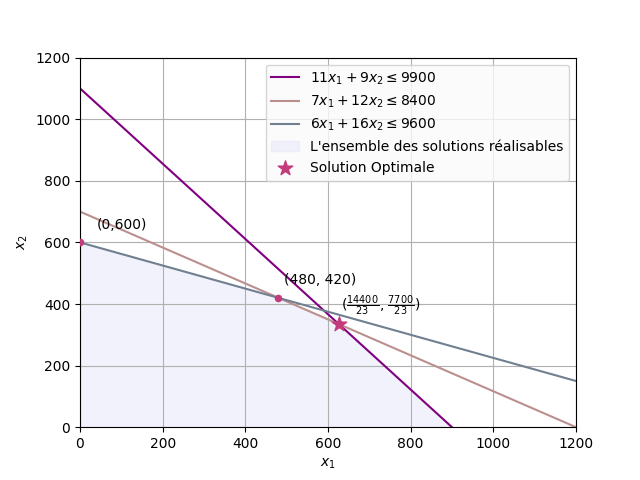
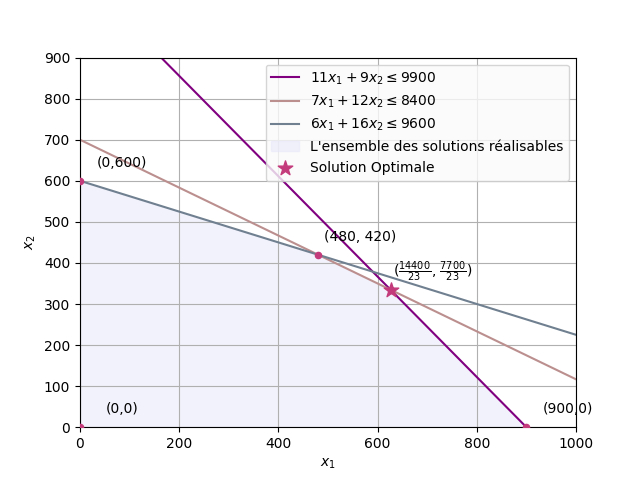
fix plots

diff --git a/Recherche Operationnelle/plot_02.py b/Recherche Operationnelle/plot_02.py
@@ -1,14 +1,14 @@
 import matplotlib.pyplot as plt
 import numpy as np
 
-x_1 = np.linspace(0, 20, 400)
+x_1 = np.linspace(0, 30, 100)
 c_1 = 12 - 2 * x_1
 c_2 = (74 - 5 * x_1) / 8
 c_3 = (24 - x_1) / 6
 
-x1_points = [2, 126/11]
-x2_points = [8, 23/11]
-x_1_x_2_labels = ['(2,8)', r'($\frac{126}{11}$,$\frac{23}{11}$)']
+x1_points = [0, 2, 126/11, 24]
+x2_points = [12, 8, 23/11, 0]
+x_1_x_2_labels = ['(0,12)', '(2,8)', r'($\frac{126}{11}$,$\frac{23}{11}$)', '(24,12)']
 
 plt.plot(x_1, c_1, label=r'$2x_1 + 2x_2 \geq 12$', color='purple')
 plt.plot(x_1, c_2, label=r'$5x_1 + 8x_2 \geq 74$', color='#BC8F8F')
@@ -18,7 +18,7 @@ plt.plot(x_1, c_3, label=r'$x_1 + 6x_2 \geq 24$', color='#708090')
 c_feasible = np.maximum.reduce([c_1, c_2, c_3])
 plt.fill_between(x_1, c_feasible, 20, color='lavender', alpha=0.5, label="L'ensemble des solutions réalisables")
 
-plt.scatter(126/11, 23/11, color='#C43B7B', s=20, zorder=3)
+plt.scatter(x1_points, x2_points, color='#C43B7B', s=20, zorder=3)
 plt.scatter(2, 8, color='#C43B7B', s=120, marker='*', label='Solution Optimale', zorder=3)
 
 for i, txt in enumerate(x_1_x_2_labels):
@@ -28,8 +28,8 @@ for i, txt in enumerate(x_1_x_2_labels):
                  xytext=(10, 10), 
                  ha='center', zorder=4) 
 
-plt.xlim(0, 20)
-plt.ylim(0, 20)
+plt.xlim(0, 30)
+plt.ylim(0, 15)
 plt.xlabel('$x_1$')
 plt.ylabel('$x_2$')
 plt.legend(loc='upper right', facecolor='#FAFAFA')

diff --git a/Recherche Operationnelle/plot_03.py b/Recherche Operationnelle/plot_03.py
@@ -1,14 +1,14 @@
 import numpy as np
 import matplotlib.pyplot as plt
 
-x_1 = np.linspace(0, 1200, 400)
+x_1 = np.linspace(0, 1000, 400)
 c_1 = (9900 - 11 * x_1) / 9
 c_2 = (8400 - 7 * x_1) / 12
 c_3 = (9600 - 6 * x_1) / 16
 
-x1_points = [0, 480, 14400/23]
-x2_points = [600, 420, 7700/23]
-x_1_x_2_labels = ['(0,600)', '(480, 420)', r'($\frac{14400}{23}$, $\frac{7700}{23}$)']
+x1_points = [0, 0, 480, 14400/23, 900]
+x2_points = [0, 600, 420, 7700/23, 0]
+x_1_x_2_labels = ['(0,0)', '(0,600)', '(480, 420)', r'($\frac{14400}{23}$, $\frac{7700}{23}$)', '(900,0)']
 
 plt.plot(x_1, c_1, label=r'$11x_1 + 9x_2 \leq 9900$', color='purple')
 plt.plot(x_1, c_2, label=r'$7x_1 + 12x_2 \leq 8400$', color='#BC8F8F')
@@ -26,8 +26,8 @@ for i, txt in enumerate(x_1_x_2_labels):
                  xytext=(30, 10), 
                  ha='center', zorder=4) 
 
-plt.xlim(0, 1200)
-plt.ylim(0, 1200)
+plt.xlim(0, 1000)
+plt.ylim(0, 900)
 plt.xlabel('$x_1$')
 plt.ylabel('$x_2$')
 plt.legend(loc='upper right', facecolor='#FAFAFA')
